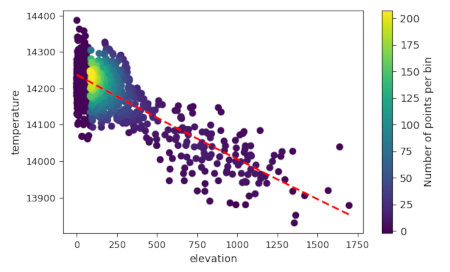
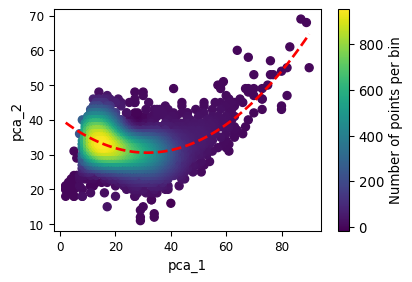
v.scatterplot: add option for dot color and size  (#992)
Add option to color dots according to RGB column and to set the dot size. Updated examples.

diff --git a/src/vector/v.scatterplot/v.scatterplot.html b/src/vector/v.scatterplot/v.scatterplot.html
@@ -3,90 +3,134 @@
 <p>
 <em>v.scatterplot</em> draws a scatterplot of the value in one 
 column against the values in another column. Optionally, a linear or 
-polynomial trendline with user-defined degrees can be drawn on top.
+polynomial trend line with user-defined degrees can be drawn on top.
 
 <p>
 There are a few additional layout options, including the option to 
 set the color of the dots, the color, line type, and width of the 
-trendline, and the font size of the axis and tic labels.
+Trend line, and the font size of the axis and tic labels.
 
 <p>
-Instead of a fixed color, dots can be colored by the spatial 
-density of nearby points, using the option <em>type=density</em>. The 
-spatial density is computed by grouping the points in 2D bins. The 
-number of bins along the x-axis and y-axis is user-defined.
+Instead of a fixed color, dots can be colored using colors from a 
+user-defined column, or by the spatial density of nearby points, using 
+the option <em>type=density</em>. The spatial density is computed by 
+grouping the points in 2D bins. The number of bins along the x-axis and 
+y-axis is user-defined.
 
 <p>
 By default, the resulting plot is displayed on screen (default). 
 However, the user can also save the plot to a file using the 
 <em>file_name</em> option. The format is determined by the extension 
 given by the user. So, if file_name = outputfile.png, the plot will be 
-saved as a png file.
+saved as a PNG file.
 
-<h2>EXAMPLE</h2>
+<h2>EXAMPLES</h2>
 
 <h3>Example 1</h3>
 
-Download the NC sample dataset and MODIS Land 
-Surface Temperature mapset from <a 
-href="https://grass.osgeo.org/download/data/">GRASS GIS website</a>
+<p>
+For the examples below, the NCA sample data set from <a 
+href="https://grass.osgeo.org/download/data/">GRASS GIS website</a> 
+will be used
+
+<p> Create a new mapset and Use the layer 
+<i>lsat7_2002_10@PERMANENT</i> to set the region.
+
+<div class="code"><pre>
+g.mapset -c mapset=scatterplot
+g.region raster=lsat7_2002_10@PERMANENT
+</pre>
+</div>
 
 <p>
-Use the raster layers <em>elev_state_500m</em> from the PERMANENT 
-mapset of the NC sample dataset to set the region and mask.
+Get the list of Landsat layers from the Permanent mapset. Use this as 
+input for <em>i.pca</em> to create principal component layers.
 
 <div class="code"><pre>
-g.region raster=slope
-r.mask raster=elev_state_500m
+lcc=`g.list type="raster" mapset="PERMANENT" pattern="lsat7_*" sep=,`
+i.pca -n input=$lcc output=pca rescale=0,100
 </pre>
 </div>
 
-Create a vector point layer with 1000 random points. Add an attribute 
-table with two columns <em>slope</em> and <em>elevation</em>
+<p>
+Create 5000 random points, retrieve the raster value from the first two 
+PCA layers for each point location of the random points, and write 
+these values to the columns <i>pca_1</i> and <i>pca_2</i> in the 
+attribute table of <i>randompoints</i>.
 
 <div class="code"><pre>
-r.random input=elev_state_500m npoints=1000 vector=randompoints seed=10
+r.random input=elevation npoints=5000 vector=randompoints seed=10
+v.what.rast map=randompoints raster=pca.1 column=pca_1
+v.what.rast map=randompoints raster=pca.2 column=pca_2
 </pre>
 </div>
 
-Sample the raster values of the raster layers <em>elev_state_500m</em> 
-from the PERMANENT MAPSET and 
-<em>MOD11B3.A2016336.h11v05.single_LST_Day_6km</em> from the modis_lst 
-mapset.
+<p>
+Create a scatterplot, plotting the values from the column 
+<i>pca_1</i> on the X-axis and <i>pca_2</i> on the Y-asix, with 
+blue dots.
 
 <div class="code"><pre>
-v.what.rast map=randompoints raster=elev_state_500m column=elevation
-v.what.rast map=randompoints raster=MOD11B3.A2016336.h11v05.single_LST_Day_6km@modis_lst column=temperature
-</pre>
-</div>
-
-Draw a scatterplot of the elevation values against the slope values.
-
-<div class="code"><pre>
-v.scatterplot map=randompoints x=elevation y=temperature
+v.scatterplot map=randompoints x=pca_1 y=pca_2 color=blue
 </pre>
 </div>
 
 <p>
 <img src="v_scatterplot_01.png"><br> <em>Figure 1. Scatterplot of 
-elevation against temperature in 1000 randomly selected locations</em>
+pca_1 against pca_1</em>
 
-Draw a density scatter of the elevation values against the slope 
-values. Add a dashed linear trendline with a red color.
+
+<h3>Example 2</h3>
+
+<p>
+Create a density scatter of the values from <i>pca_1</i> and 
+<i>pca_2</i>. Add a red dashed polynomial trend line with degree 2.
 
 <div class="code"><pre>
-v.scatterplot map=randompoints x=elevation y=temperature \
-              line_color=252:0:0:255 type=density bins=10,10 \
-              trendline=linear
+v.scatterplot map=randompoints x=pca_1 y=pca_2 trendline=polynomial \
+              degree=2 line_color=red type=density bins=10,10
 </pre>
 </div>
 
 <p>
-<img src="v_scatterplot_02.png"><br> <em>Figure 1. Density 
-scatterplot of elevation against temperature in 1000 randomly selected 
-locations. Dashed red line is the trendline.</em>
+<img src="v_scatterplot_02.png"><br> <em>Figure 2. Density scatterplot
+of pca_1 against pca_1</em>. The dashed red line gives the polynomial trend line (R&sup2;=0.149)
 
+<h3>Example 3</h3>
+
+<p>
+Retrieves raster value from the raster layer <i>landclass96</i>, 
+and write these values to the column <i>landuse</i> in the attribute 
+table of <i>randompoints</i>. Next, transfer the raster colors of the 
+raster layer <i>landclass96</i> to the new column <i>RGB</i> of the 
+attribute table of <i>randompoints</i>.
+
+
+<div class="code"><pre>
+v.what.rast map=randompoints raster=landclass96 column=landuse
+v.colors map=randompoints use=attr column=landuse \
+         raster=landclass96@PERMANENT rgb_column=RGB
+</pre>
+</div>
+
+<p>
+Create a scatterplot, using the colors from the RGB column. Set the 
+size of the dots to 8.
+
+<div class="code"><pre>
+v.scatterplot map=randompoints x=pca_1 y=pca_2 s=8 rgbcolumn=RGB
+</pre>
+</div>
+
+<p>
+<img src="v_scatterplot_03.png"><br> <em>Figure 3. Scatterplot of 
+pca_1 against pca_1. Colors represent the land use categories in the 
+point locations based on the landclass96 map.</em>
 
 <h2>AUTHOR</h2>
 
-Paulo van Breugel
+Paulo van Breugel 
+Applied Geo-information Sciences
+HAS green academy, University of Applied Sciences
+
+

diff --git a/src/vector/v.scatterplot/v.scatterplot.py b/src/vector/v.scatterplot/v.scatterplot.py
@@ -54,6 +54,47 @@
 # %end
 
 # %option
+# % key: type
+# % type: string
+# % label: plot type
+# % description: Type of plot (scatter, density)
+# % required: no
+# % answer: scatter
+# % options: scatter, density
+# % guisection: Stats
+# %end
+
+# %option
+# % key: bins
+# % type: string
+# % label: 2D bins
+# % description: The number of bins in x and y dimension.
+# % required: no
+# % answer: 30,30
+# % guisection: Stats
+# %end
+
+# %option
+# % key: trendline
+# % type: string
+# % label: Trendline
+# % description: Plot trendline
+# % required: no
+# % options: linear, polynomial
+# % guisection: Stats
+# %end
+
+# %option
+# % key: degree
+# % type: integer
+# % label: Degree
+# % description: Degree polynomial trendline
+# % required: no
+# % answer: 1
+# % guisection: Stats
+# %end
+
+# %option
 # % key: title
 # % type: string
 # % label: Plot title
@@ -72,14 +113,35 @@
 # % guisection: Aesthetics
 # %end
 
+# %option
+# % key: s
+# % type: double
+# % label: Marker size
+# % description: Set marker size
+# % required: no
+# % guisection: Aesthetics
+# %end
+
 # %option G_OPT_C
 # % key: color
 # % type: string
 # % label: Dot color
 # % description: Color of dots
 # % required: no
-# % answer: blue
 # % guisection: Aesthetics
+# %end
+
+# %option G_OPT_DB_COLUMN
+# % key: rgbcolumn
+# % type: string
+# % label: RGB column
+# % description: Column with RGB values defining the dot colors
+# % required: no
+# % guisection: Aesthetics
+# %end
+
+# %rules
+# % exclusive: color,rgbcolumn
 # %end
 
 # %option G_OPT_C
@@ -142,47 +204,6 @@
 # % guisection: Output
 # %end
 
-# %option
-# % key: type
-# % type: string
-# % label: plot type
-# % description: Type of plot (scatter, density)
-# % required: no
-# % answer: scatter
-# % options: scatter, density
-# % guisection: Stats
-# %end
-
-# %option
-# % key: bins
-# % type: string
-# % label: 2D bins
-# % description: The number of bins in x and y dimension.
-# % required: no
-# % answer: 30,30
-# % guisection: Stats
-# %end
-
-# %option
-# % key: trendline
-# % type: string
-# % label: Trendline
-# % description: Plot trendline
-# % required: no
-# % options: linear, polynomial
-# % guisection: Stats
-# %end
-
-# %option
-# % key: degree
-# % type: integer
-# % label: Degree
-# % description: Degree polynomial trendline
-# % required: no
-# % answer: 1
-# % guisection: Stats
-# %end
-
 import atexit
 import sys
 import uuid
@@ -242,7 +263,7 @@ def lazy_import_scipy():
         return "noscipy"
 
 
-def scatter_plot(X, Y, X_name, Y_name, title, color, marker, dimensions, fontsize):
+def scatter_plot(X, Y, X_name, Y_name, title, color, marker, s, dimensions, fontsize):
     """
     Create scatterplot
 
@@ -253,6 +274,7 @@ def scatter_plot(X, Y, X_name, Y_name, title, color, marker, dimensions, fontsiz
     :param str title: label for plot title (empty is not title)
     :param str color: color of the dots in the scatterplot
     :param str marker: the mark type for the scatterplot dots
+    :param float s: size of marker
     :param list dimensions: plot dimensions (width, height)
     :param float fontsize: fontsize of all text (tic labes are 1pnt smaller)
 
@@ -263,7 +285,10 @@ def scatter_plot(X, Y, X_name, Y_name, title, color, marker, dimensions, fontsiz
     plt.rcParams["font.size"] = fontsize
     for label in ax.get_xticklabels() + ax.get_yticklabels():
         label.set_fontsize(fontsize - 1)
-    ax.scatter(X, Y, color=color, marker=marker)
+    if s:
+        ax.scatter(X, Y, color=color, marker=marker, s=s)
+    else:
+        ax.scatter(X, Y, color=color, marker=marker)
     plt.xlabel(X_name, fontsize=fontsize)
     plt.ylabel(Y_name, fontsize=fontsize)
     if len(title) != 0:
@@ -327,7 +352,7 @@ def main(options, flags):
     Optionally, color the dots according to their density
     """
 
-    # lazy import matplotlib
+    # lazy import modules
     lazy_import_matplotlib()
     if options["type"] == "density":
         has_scipy = lazy_import_scipy()
@@ -351,11 +376,26 @@ def main(options, flags):
     plot_title = options["title"]
     file_name = options["file_name"]
     bins = [int(x) for x in options["bins"].split(",")]
-    dot_color = get_valid_color(options["color"])
+    if options["rgbcolumn"]:
+        rgbcolumn = gs.read_command(
+            "v.db.select",
+            map=options["map"],
+            columns=options["rgbcolumn"],
+            flags="c",
+        ).splitlines()
+        dot_color = [get_valid_color(x) for x in rgbcolumn]
+    elif options["color"]:
+        dot_color = get_valid_color(options["color"])
+    else:
+        dot_color = get_valid_color("blue")
     line_color = get_valid_color(options["line_color"])
     line_style = options["line_style"]
     line_width = options["line_width"]
     dot_marker = options["marker"]
+    if options["s"]:
+        s = float(options["s"])
+    else:
+        s = False
 
     # Plot scatterplot
     if options["type"] == "scatter":
@@ -367,6 +407,7 @@ def main(options, flags):
             title=plot_title,
             color=dot_color,
             marker=dot_marker,
+            s=s,
             dimensions=plot_dimensions,
             fontsize=float(options["fontsize"]),
         )
